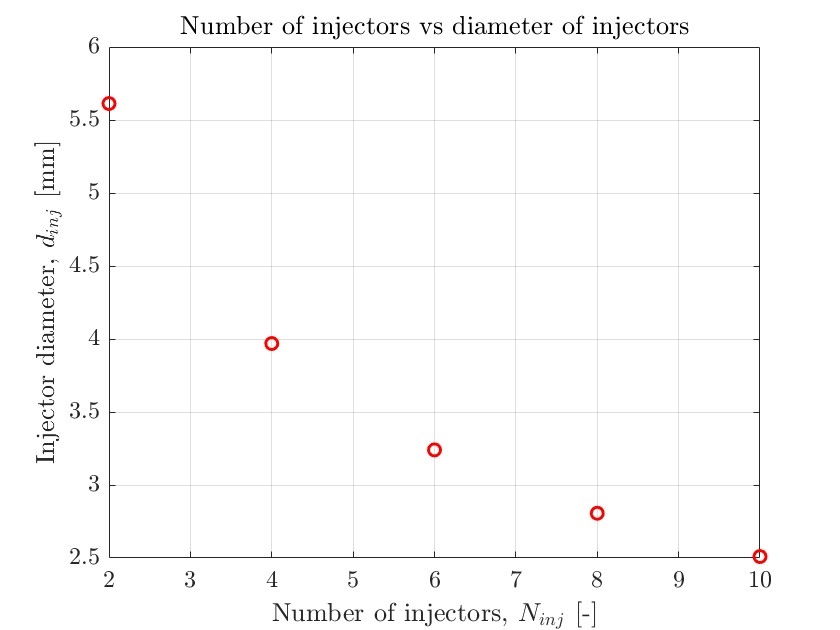
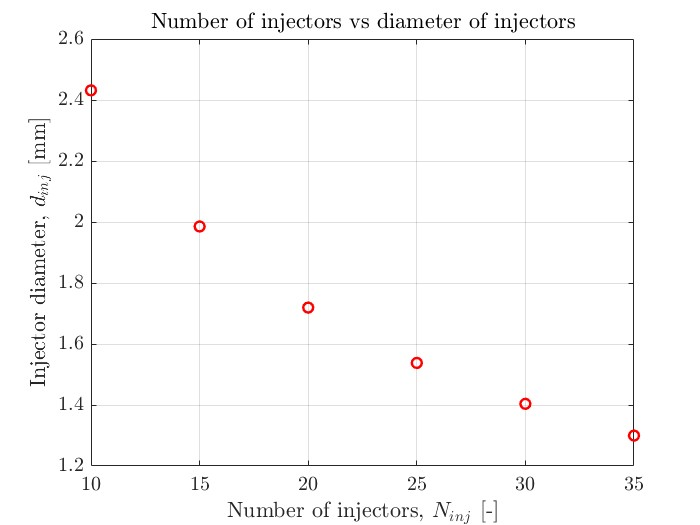
c

diff --git a/Perdite_di_carico_12mm.m b/Perdite_di_carico_12mm.m
@@ -434,8 +434,8 @@ clear gamma11_new
 delta_P_inj = 0.4*100*sqrt(10*P11*1e5); % Pressure drop across the injection plate [Pa] 
 P12 = P11 - delta_P_inj*1e-5;           % Pressure in the test chamber [bar]
 
-N_inj = [2 4 6 8 10];
-C_d = 0.61;                              % Sharp-edged orifice with diameter greater than 2.5 mm
+N_inj = [10 15 20 25 30 35];
+C_d = 0.65;                              % Sharp-edged orifice with diameter smaller than 2.5 mm
 A_needed = m_dot_N2/(C_d*sqrt(2*delta_P_inj*rho11));
 A_inj = A_needed./N_inj;
 d_inj = sqrt((4*A_inj)/pi);
